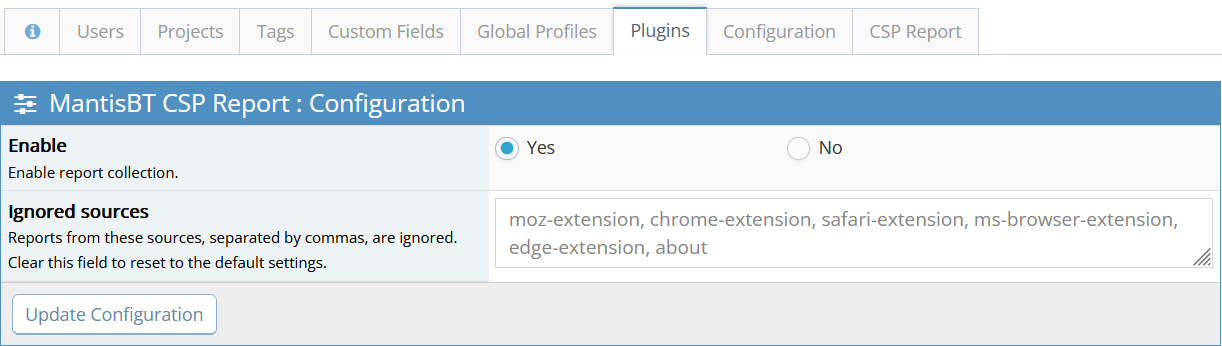
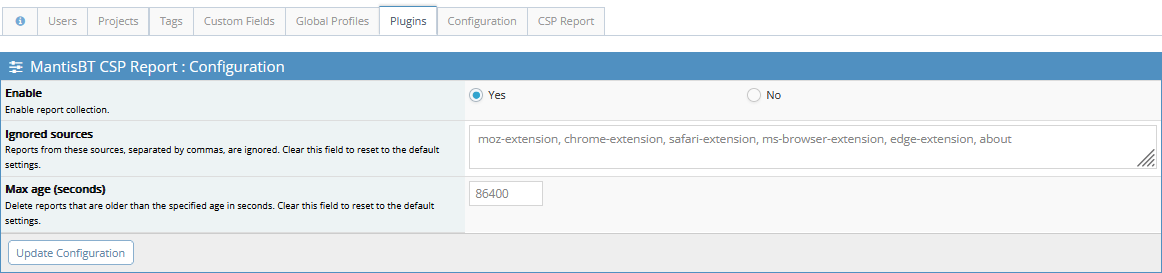
Add a grouping and a maximum age option.
The option to save the selected page number has been added.
The table index has been added.

diff --git a/pages/view.php b/pages/view.php
@@ -22,11 +22,29 @@ auth_reauthenticate();
 
 access_ensure_global_level( config_get( 'manage_site_threshold' ) );
 
-$f_page_number = gpc_get_int( 'page_number', 1 );
+$t_grouped = (int)plugin_config_get( 'grouped', MantisCSPReportPlugin::DEFAULT_GROUPED );
+$t_page_number = (int)plugin_config_get( 'page_number', MantisCSPReportPlugin::DEFAULT_PAGE_NUMBER );
+
+$f_grouped = gpc_get_bool( 'grouped', $t_grouped );
+$f_page_number = gpc_get_int( 'page_number', $t_page_number );
 
 $t_date_format = config_get( 'normal_date_format' );
+$t_table = plugin_table( 'reports' );
+if( $f_grouped ) {
+	$t_query_count = 'SELECT COUNT(*) FROM ' . $t_table
+		. ' WHERE id IN ( SELECT id FROM ' . $t_table
+		. ' GROUP BY directive, source, line )';
+	$t_query = 'SELECT *, COUNT(*) count FROM ' . $t_table
+		. ' GROUP BY directive, source, line'
+		. ' ORDER BY date ASC, source ASC, line ASC';
+} else {
+	$t_query_count = 'SELECT COUNT(*) FROM ' . $t_table;
+	$t_query = 'SELECT * FROM ' . $t_table
+		. ' ORDER BY date ASC, source ASC, line ASC';
+}
 
-$t_total_count = db_result( db_query( 'SELECT count(*) FROM ' . plugin_table( 'reports' ) ) );
+# Paging
+$t_total_count = db_result( db_query( $t_query_count ) );
 $t_per_page = 10;
 $t_page_count = ceil( $t_total_count / $t_per_page );
 if( $t_page_count < 1 ) {
@@ -40,6 +58,25 @@ if( $f_page_number < 1 ) {
 }
 $t_offset = ( $f_page_number - 1 ) * $t_per_page;
 
+# Read data
+$t_result = db_query( $t_query, [], $t_per_page, $t_offset );
+
+# Save table view
+if( $f_grouped != $t_grouped ) {
+	if( $f_grouped != MantisCSPReportPlugin::DEFAULT_GROUPED ) {
+		plugin_config_set( 'grouped', $f_grouped );
+	} else {
+		plugin_config_delete( 'grouped' );
+	}
+}
+if( $f_page_number != $t_page_number ) {
+	if( $f_page_number != MantisCSPReportPlugin::DEFAULT_PAGE_NUMBER ) {
+		plugin_config_set( 'page_number', $f_page_number );
+	} else {
+		plugin_config_delete( 'page_number' );
+	}
+}
+
 layout_page_header( plugin_lang_get( 'title' ) );
 
 layout_page_begin( 'manage_overview_page.php' );
@@ -51,12 +88,13 @@ print_manage_menu( 'view.php' );
 	<div class="form-container">
 		<form action="<?php echo plugin_page( 'action.php' ) ?>" method="post">
 			<?php echo form_security_field( 'plugin_MantisCSPReport_action' ) ?>
+			<input type="hidden" name="page_number" value="<?php echo $f_page_number ?>">
 			<div class="widget-box widget-color-blue2">
 			
 				<div class="widget-header widget-header-small">
 					<h4 class="widget-title lighter">
 						<?php print_icon( 'fa-list', 'ace-icon' ) ?>
-						<?php echo string_html_specialchars( plugin_lang_get( 'title' ) ) ?>
+						<?php echo plugin_lang_get( 'title' ) ?>
 						<span class="badge"><?php echo $t_total_count ?></span>
 					</h4>
 				</div>
@@ -68,30 +106,30 @@ print_manage_menu( 'view.php' );
 								<tbody>
 									<tr>
 										<th class="category"></th>
-										<th class="category"><?php echo lang_get( 'date_submitted' ) ?></th>
 										<th class="category"><?php echo plugin_lang_get( 'directive' ) ?></th>
 										<th class="category"><?php echo plugin_lang_get( 'source' ) ?></th>
 										<th class="category center"><?php echo plugin_lang_get( 'line' ) ?></th>
+<?php							if( $f_grouped ) { ?>
+										<th class="category center"><?php echo plugin_lang_get( 'count' ) ?></th>
+<?php							} ?>
 										<th class="category"><?php echo plugin_lang_get( 'document' ) ?></th>
 										<th class="category"><?php echo plugin_lang_get( 'blocked' ) ?></th>
+										<th class="category"><?php echo lang_get( 'date_submitted' ) ?></th>
 									</tr>
-<?php
-										$t_result = db_query( 'SELECT * FROM ' . plugin_table( 'reports' ) . ' ORDER BY date ASC', [], $t_per_page, $t_offset );
-										$t_index = $t_offset;
-										while( $t_row = db_fetch_array( $t_result ) ) {
-?>
+<?php							while( $t_row = db_fetch_array( $t_result ) ) { ?>
 									<tr>
-										<td><?php echo ++$t_index ?></td>
-										<td><?php echo date( $t_date_format, $t_row['date'] ) ?></td>
+										<td><?php echo ++$t_offset ?></td>
 										<td><?php echo string_attribute( $t_row['directive'] ) ?></td>
 										<td><?php echo string_display_line_links( $t_row['source'] ) ?></td>
 										<td class="center"><?php echo string_attribute( $t_row['line'] ) ?></td>
+<?php								if( $f_grouped ) { ?>
+										<td class="center"><?php echo string_display_line_links( $t_row['count'] ) ?></td>
+<?php								} ?>
 										<td><?php echo string_display_line_links( $t_row['document'] ) ?></td>
 										<td><?php echo string_display_line_links( $t_row['blocked'] ) ?></td>
+										<td><?php echo date( $t_date_format, $t_row['date'] ) ?></td>
 									</tr>
-<?php
-										}
-?>
+<?php							} ?>
 								</tbody>
 							</table>
 						</div>
@@ -100,12 +138,16 @@ print_manage_menu( 'view.php' );
 							<div class="pull-left">
 								<input class="btn btn-primary btn-sm btn-white btn-round" value="<?php echo lang_get( 'proceed' ) ?>" type="submit">
 								<label class="inline">
-									<input class="ace" type="checkbox" name="clear" value="all">
+									<input class="ace input-sm" type="checkbox" name="grouped" <?php check_checked( $f_grouped, true ) ?>>
+									<span class="lbl padding-6 padding-left-8"><?php echo plugin_lang_get( 'grouped' ) ?></span>
+								</label>
+								<label class="inline">
+									<input class="ace input-sm" type="checkbox" name="clear" value="all">
 									<span class="lbl padding-6 padding-left-8 red"><?php echo lang_get( 'remove_all_link' ) ?></span>
 								</label>
 							</div>
 							<div class="btn-toolbar pull-right">
-								<?php print_page_links( plugin_page( 'view.php' ), 1, $t_page_count, $f_page_number ) ?>
+								<?php print_page_links( helper_url_combine( plugin_page( 'view.php' ), [ 'grouped' => $f_grouped ] ), 1, $t_page_count, $f_page_number ) ?>
 							</div>
 						</div>
 						

diff --git a/pages/config.php b/pages/config.php
@@ -22,6 +22,10 @@ auth_reauthenticate();
 
 access_ensure_global_level( config_get( 'manage_plugin_threshold' ) );
 
+$t_enable = plugin_config_get( 'enable', MantisCSPReportPlugin::DEFAULT_ENABLE );
+$t_ignore = plugin_config_get( 'ignore', MantisCSPReportPlugin::DEFAULT_IGNORE );
+$t_aging = plugin_config_get( 'aging', MantisCSPReportPlugin::DEFAULT_AGING );
+
 layout_page_header( plugin_lang_get( 'config' ) );
 
 layout_page_begin( 'manage_overview_page.php' );
@@ -38,7 +42,7 @@ print_manage_menu( 'manage_plugin_page.php' );
 				<div class="widget-header widget-header-small">
 					<h4 class="widget-title lighter">
 						<?php print_icon( 'fa-sliders', 'ace-icon' ) ?>
-						<?php echo string_html_specialchars( plugin_lang_get( 'config' ) ) ?>
+						<?php echo plugin_lang_get( 'config' ) ?>
 					</h4>
 				</div>
 
@@ -48,32 +52,43 @@ print_manage_menu( 'manage_plugin_page.php' );
 							<table class="table table-bordered table-condensed table-striped">
 								<tbody>
 									<tr>
-										<th class="category width-40"><?php echo string_html_specialchars( plugin_lang_get( 'enable_title' ) ) ?><br/>
-											<span class="small"><?php echo string_html_specialchars( plugin_lang_get( 'enable_details' ) ) ?></span>
+										<th class="category width-40"><?php echo plugin_lang_get( 'enable_title' ) ?><br/>
+											<span class="small"><?php echo plugin_lang_get( 'enable_details' ) ?></span>
 										</th>
 										<td>
 											<label class="width-40">
-												<input type="radio" name="enable" value="1" class="ace" <?php check_checked( plugin_config_get( 'enable' ), ON ) ?>>
+												<input type="radio" name="enable" value="1" class="ace" <?php check_checked( $t_enable, ON ) ?>>
 												<span class="lbl padding-6"><?php echo lang_get( 'yes' ) ?></span>
 											</label>
 											<label class="width-40">
-												<input type="radio" name="enable" value="0" class="ace" <?php check_checked( plugin_config_get( 'enable' ), OFF ) ?>>
+												<input type="radio" name="enable" value="0" class="ace" <?php check_checked( $t_enable, OFF ) ?>>
 												<span class="lbl padding-6"><?php echo lang_get( 'no' ) ?></span>
 											</label>
 										</td>
 									</tr>
+
 									<tr>
-										<th class="category width-40"><?php echo string_html_specialchars( plugin_lang_get( 'ignore_title' ) ) ?><br/>
-											<span class="small"><?php echo string_html_specialchars( plugin_lang_get( 'ignore_details' ) ) ?></span>
+										<th class="category width-40"><?php echo plugin_lang_get( 'ignore_title' ) ?><br/>
+											<span class="small"><?php echo plugin_lang_get( 'ignore_details' ) ?></span>
 										</th>
 										<td>
-											<textarea class="form-control" name="ignore"><?php echo string_html_specialchars( implode( ', ', plugin_config_get( 'ignore' ) ) ) ?></textarea>
+											<textarea class="form-control" name="ignore"><?php echo string_html_specialchars( implode( ', ', $t_ignore ) ) ?></textarea>
 										</td>
 									</tr>
+
+									<tr>
+										<th class="category width-40"><?php echo plugin_lang_get( 'aging_title' ) ?><br/>
+											<span class="small"><?php echo plugin_lang_get( 'aging_details' ) ?></span>
+										</th>
+										<td>
+											<input class="input-sm" name="aging" size="8" maxlength="8" value="<?php echo $t_aging ?>" type="text">
+										</td>
+									</tr>
+
 								</tbody>
 							</table>
 							<div class="widget-toolbox padding-8 clearfix">
-								<input class="btn btn-primary btn-sm btn-white btn-round" value="<?php echo string_html_specialchars( lang_get( 'change_configuration' ) ) ?>" type="submit">
+								<input class="btn btn-primary btn-sm btn-white btn-round" value="<?php echo lang_get( 'change_configuration' ) ?>" type="submit">
 							</div>
 						</div>
 					</div>

diff --git a/MantisCSPReport.php b/MantisCSPReport.php
@@ -20,6 +20,19 @@
 
 class MantisCSPReportPlugin extends MantisPlugin {
 
+	public const DEFAULT_ENABLE = ON;
+	public const DEFAULT_IGNORE = [
+		'moz-extension',
+		'chrome-extension',
+		'safari-extension',
+		'ms-browser-extension',
+		'edge-extension',
+		'about',
+	];
+	public const DEFAULT_AGING = 24 * 60 * 60;
+	public const DEFAULT_GROUPED = ON;
+	public const DEFAULT_PAGE_NUMBER = 1;
+
 	/**
 	 * A method that populates the plugin information and minimum requirements.
 	 *
@@ -30,7 +43,7 @@ class MantisCSPReportPlugin extends MantisPlugin {
 		$this->description = plugin_lang_get( 'description' );
 		$this->page = 'config';
 
-		$this->version = '1.1.0';
+		$this->version = '1.2.0';
 		$this->requires = [
 			'MantisCore' => '2.0'
 		];
@@ -47,15 +60,11 @@ class MantisCSPReportPlugin extends MantisPlugin {
 	 */
 	function config() {
 		return [
-			'enable' => ON,
-			'ignore' => [
-				'moz-extension',
-				'chrome-extension',
-				'safari-extension',
-				'ms-browser-extension',
-				'edge-extension',
-				'about',
-			],
+			'enable' => self::DEFAULT_ENABLE,
+			'ignore' => self::DEFAULT_IGNORE,
+			'aging' => self::DEFAULT_AGING,
+			'grouped' => self::DEFAULT_GROUPED,
+			'page_number' => self::DEFAULT_PAGE_NUMBER,
 		];
 	}
 
@@ -77,16 +86,18 @@ class MantisCSPReportPlugin extends MantisPlugin {
 	 * @return array
 	 */
 	public function schema() {
+		$t_table = plugin_table( 'reports' );
 		return [
-			[ 'CreateTableSQL', [ plugin_table( 'reports' ), "
+			[ 'CreateTableSQL', [ $t_table , "
 				id        I  NOTNULL PRIMARY AUTOINCREMENT,
 				date      I  NOTNULL,
 				source    XL NOTNULL,
 				line      I  NOTNULL,
 				directive XL NOTNULL,
 				document  XL NOTNULL,
-				blocked   XL NOTNULL
-			" ] ],
+				blocked   XL NOTNULL" ] ],
+			[ 'CreateIndexSQL', [ 'idx_' . $this->basename . '_source',
+				$t_table, [ 'source', 'line', 'directive' ] ] ],
 		];
 	}
 
@@ -96,7 +107,7 @@ class MantisCSPReportPlugin extends MantisPlugin {
 	 * @return void
 	 */
 	public function core_headers() {
-		if( plugin_config_get( 'enable', ON ) ) {
+		if( ON == plugin_config_get( 'enable', self::DEFAULT_ENABLE ) ) {
 			$t_url = plugin_page( 'report.php' );
 			if( http_is_protocol_https() ) {
 				http_csp_add( 'report-to', 'default' );

diff --git a/pages/report.php b/pages/report.php
@@ -18,7 +18,7 @@
  * Copyright (C) 2026 Nikolay Raspopov <raspopov@cherubicsoft.com>
  */
 
-if( !plugin_config_get( 'enable', ON ) ) {
+if( ON != plugin_config_get( 'enable', MantisCSPReportPlugin::DEFAULT_ENABLE ) ) {
 	http_response_code( HTTP_STATUS_UNAVAILABLE );
 	exit;
 }
@@ -29,7 +29,7 @@ http_response_code( HTTP_STATUS_NO_CONTENT );
  * Add a new report to the database
  * @return void
  */
-function report( $p_now, $p_source, $p_line, $p_directive, $p_document, $p_blocked ) {
+function report( int $p_now, $p_source, $p_line, $p_directive, $p_document, $p_blocked ) {
 	if(    !is_null( $p_directive )
 		&& !is_null( $p_document )
 		&& !is_null( $p_blocked ) ) {
@@ -39,18 +39,24 @@ function report( $p_now, $p_source, $p_line, $p_directive, $p_document, $p_block
 			return;
 		}
 
-		foreach( plugin_config_get( 'ignore' ) as $t_prefix ) {
-			if(    str_starts_with( $p_source, $t_prefix )
-				|| $p_directive === $t_prefix
-				|| str_starts_with( $p_blocked, $t_prefix )
-				|| str_starts_with( $p_document, $t_prefix ) ) {
+		$t_ignore = plugin_config_get( 'ignore', MantisCSPReportPlugin::DEFAULT_IGNORE );
+		foreach( $t_ignore as $t_prefix ) {
+			if( $p_directive === $t_prefix
+				|| str_contains( $p_source, $t_prefix )
+				|| str_contains( $p_blocked, $t_prefix )
+				|| str_contains( $p_document, $t_prefix ) ) {
 				return;
 			}
 		}
+		
+		$t_table = plugin_table( 'reports' );
+		$t_aging = plugin_config_get( 'aging', MantisCSPReportPlugin::DEFAULT_AGING );
 
 		db_param_push();
-		db_query( 'INSERT INTO ' . plugin_table( 'reports' )
-			. ' ( date, source, line, directive, document, blocked ) VALUES ( '
+		db_query( 'DELETE FROM ' . $t_table . ' WHERE date < ' . db_param(), [ $p_now - $t_aging ] );
+
+		db_param_push();
+		db_query( 'INSERT INTO ' . $t_table . ' ( date, source, line, directive, document, blocked ) VALUES ( '
 			. db_param() . ', ' . db_param() . ', ' . db_param() . ', ' . db_param() . ', ' . db_param() . ', ' . db_param() . ' )',
 			[ $p_now, $p_source, $p_line, $p_directive, $p_document, $p_blocked ] );
 	}

diff --git a/pages/update.php b/pages/update.php
@@ -24,19 +24,27 @@ access_ensure_global_level( config_get( 'manage_plugin_threshold' ) );
 
 form_security_purge( 'plugin_MantisCSPReport_update' );
 
-$t_enable = gpc_get_int( 'enable', ON );
-if( isset( $t_enable ) && $t_enable === OFF ) {
-	plugin_config_set( 'enable', OFF );
+$f_enable = gpc_get_int( 'enable', MantisCSPReportPlugin::DEFAULT_ENABLE );
+$f_ignore = array_filter( preg_split( '/[\s,]+/', gpc_get_string( 'ignore', MantisCSPReportPlugin::DEFAULT_IGNORE ) ),
+	function( $p_key ) { return strlen( $p_key ); } );
+$f_aging = gpc_get_int( 'aging', MantisCSPReportPlugin::DEFAULT_AGING );
+
+if( $f_enable != MantisCSPReportPlugin::DEFAULT_ENABLE ) {
+	plugin_config_set( 'enable', $f_enable );
 } else {
 	plugin_config_delete( 'enable' );
 }
 
-$t_ignore = array_filter( preg_split( '/[\s,]+/', gpc_get_string( 'ignore' ) ),
-	function( $p_key ) { return strlen( $p_key ); } );
-if( $t_ignore ) {
-	plugin_config_set( 'ignore', $t_ignore );
+if( $f_ignore && $f_ignore != MantisCSPReportPlugin::DEFAULT_IGNORE ) {
+	plugin_config_set( 'ignore', $f_ignore );
 } else {
 	plugin_config_delete( 'ignore' );
+}
+
+if( $f_aging && $f_aging != MantisCSPReportPlugin::DEFAULT_AGING ) {
+	plugin_config_set( 'aging', $f_aging );
+} else {
+	plugin_config_delete( 'aging' );
 }
 
 print_header_redirect( plugin_page( 'config.php', true ) );

diff --git a/pages/action.php b/pages/action.php
@@ -24,9 +24,11 @@ access_ensure_global_level( config_get( 'manage_site_threshold' ) );
 
 form_security_purge( 'plugin_MantisCSPReport_action' );
 
-$f_clear = gpc_get_string( 'clear', '' );
-if( $f_clear === 'all' ) {
+if( gpc_get_string( 'clear', '' ) === 'all' ) {
 	db_query( 'DELETE FROM ' . plugin_table( 'reports' ) );
 }
 
-print_header_redirect( plugin_page( 'view.php', true ) );
+print_header_redirect( helper_url_combine( plugin_page( 'view.php', true ), [
+	'page_number' => gpc_get_int( 'page_number', 1 ),
+	'grouped' => gpc_get_bool( 'grouped', false ),
+] ) );
